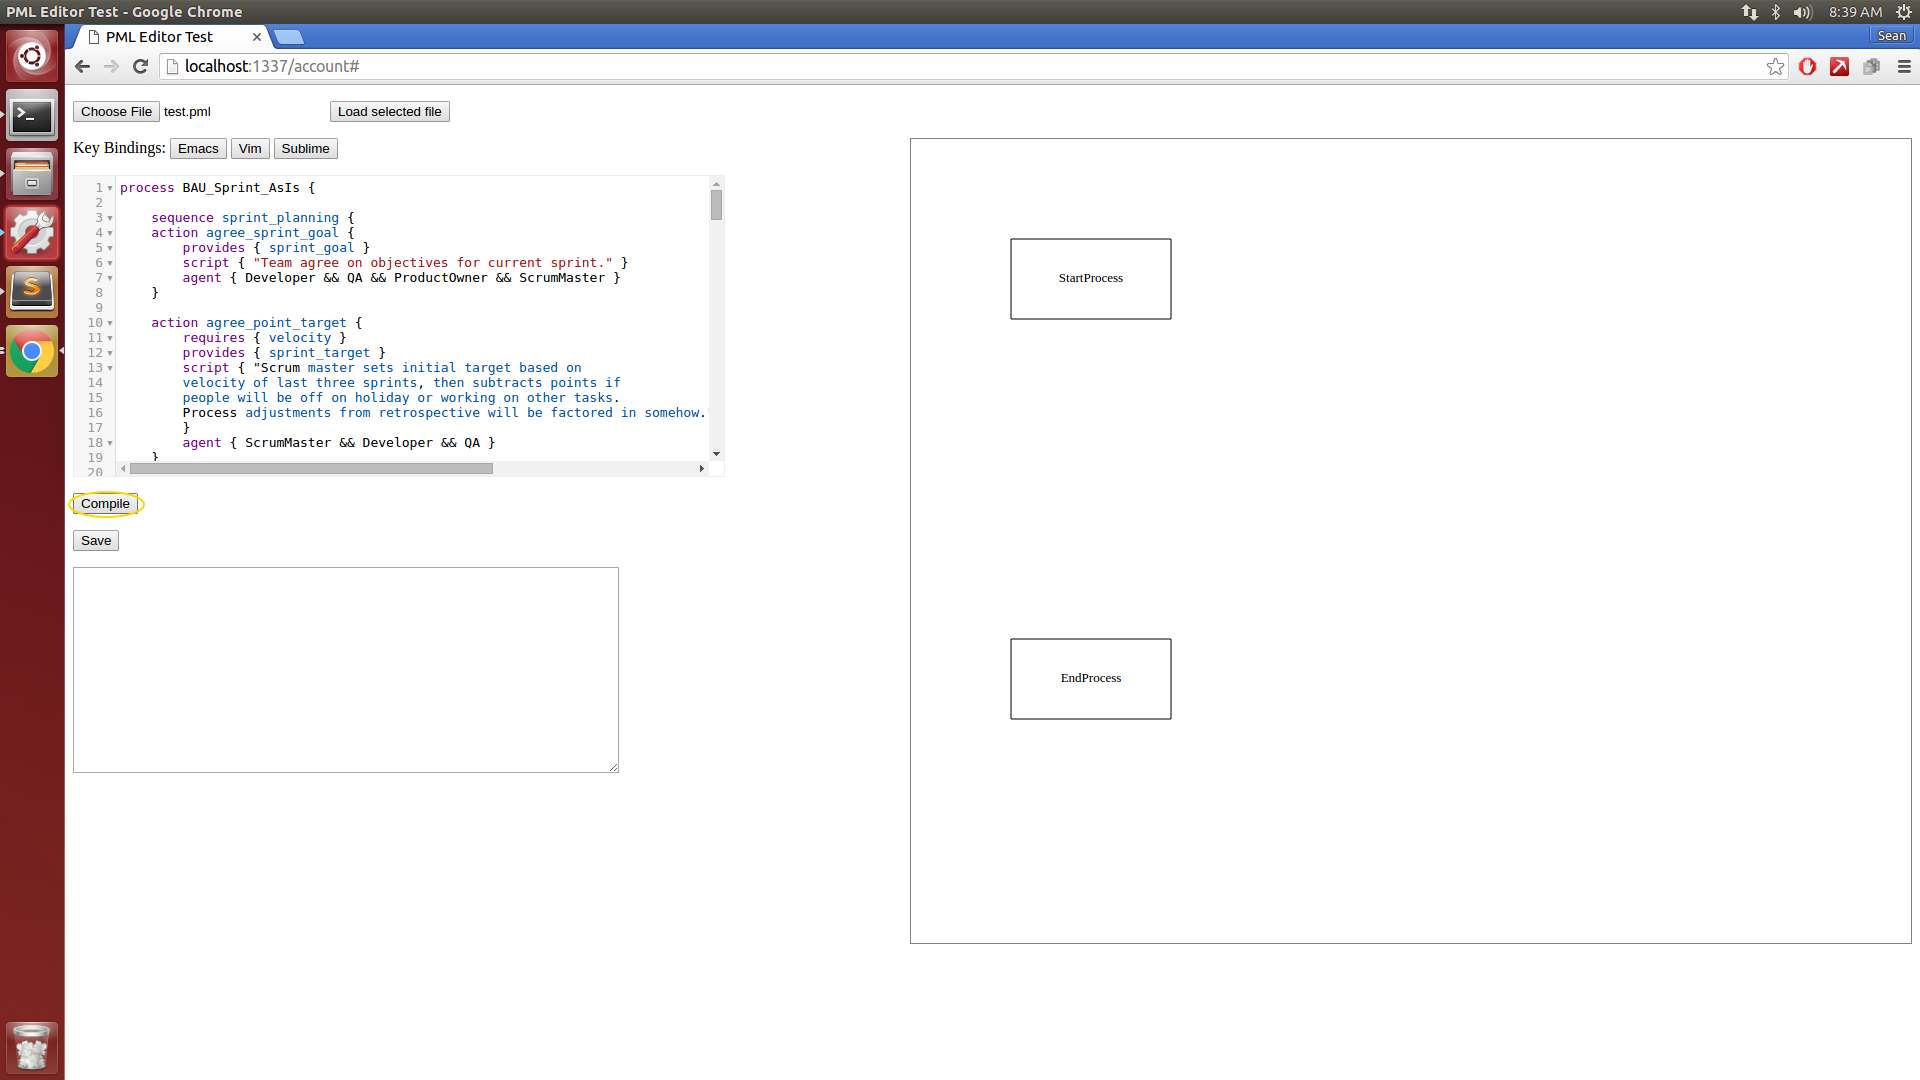
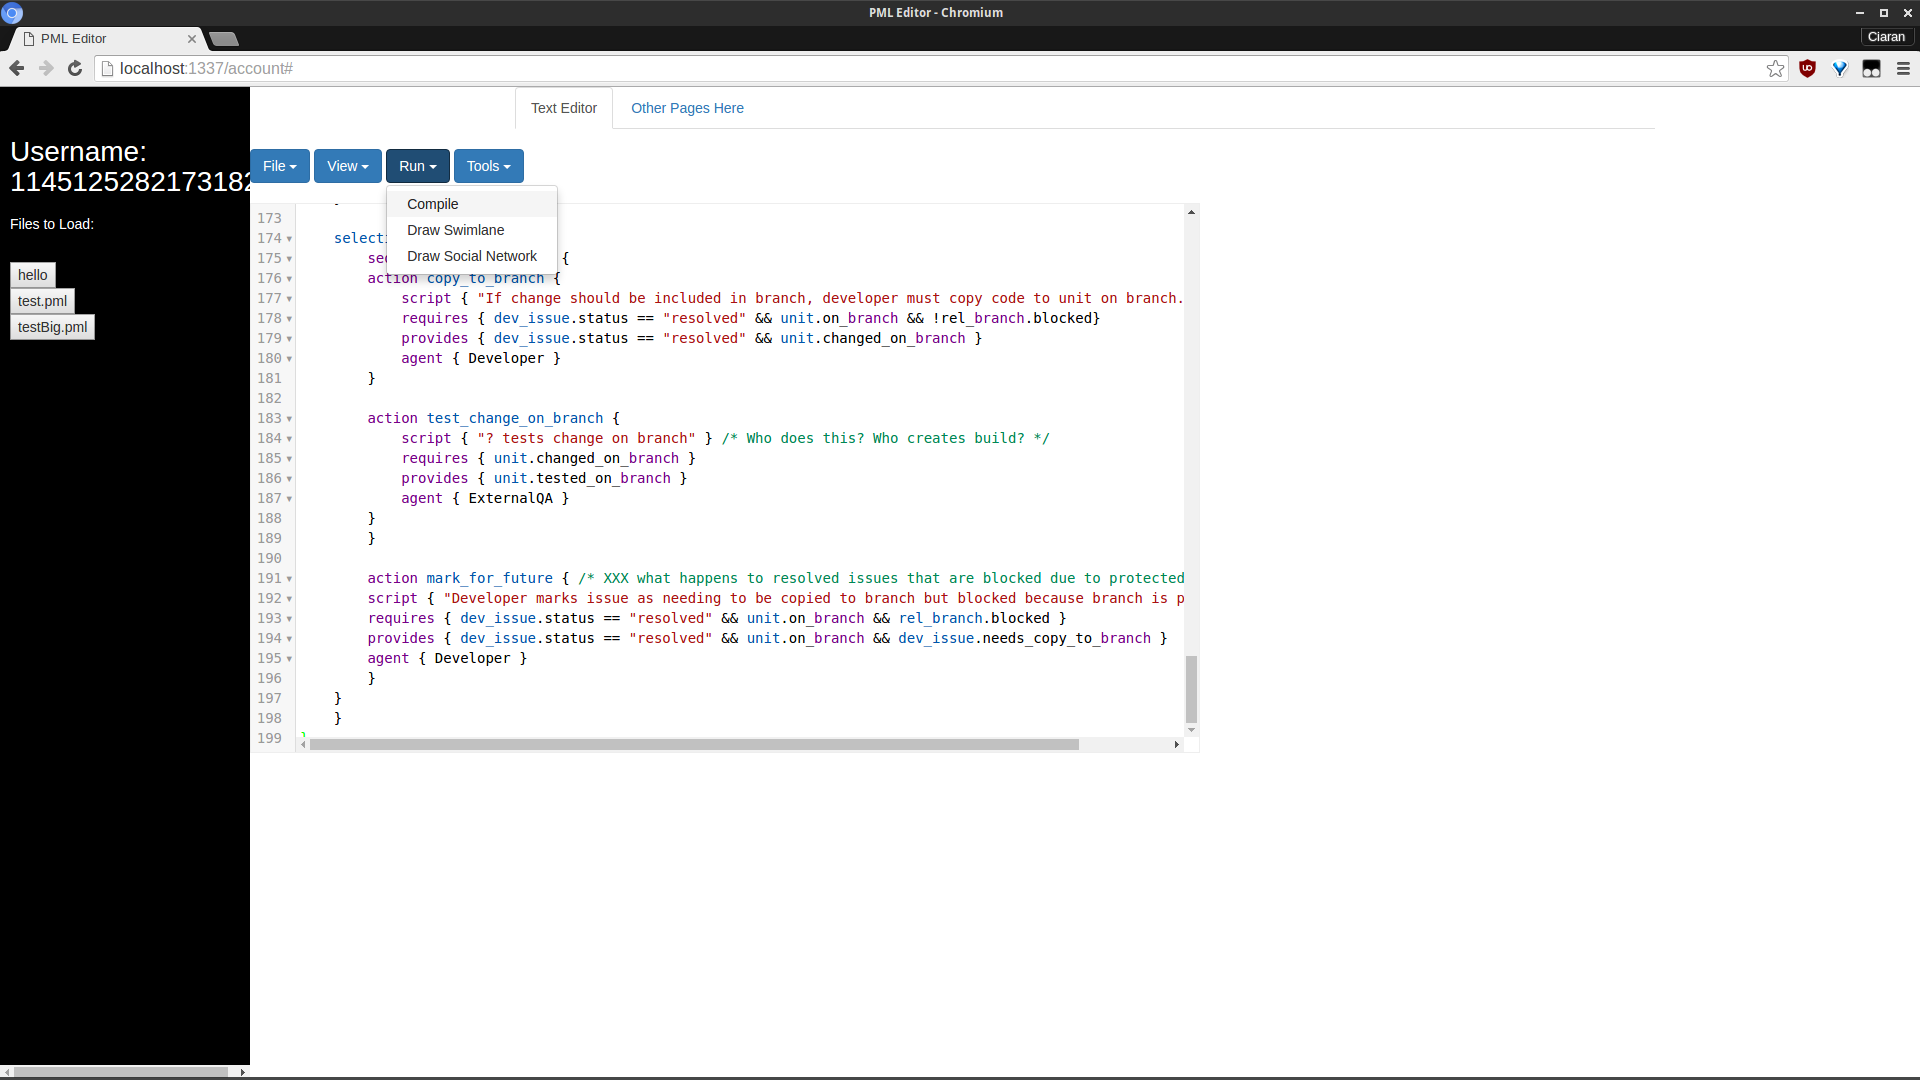
Updated README with new UI + Features for release

Changed region(s): [[0.0, 0.0, 1.0, 1.0], [0.1875, 0.5194, 0.625, 0.6722]]

diff --git a/README.md b/README.md
@@ -19,7 +19,7 @@ Java is also needed, to install `sudo apt-get install default-jdk`
 
 To install dependencies for the PML Checker, run `sudo apt-get install -y byacc flex`
 
-For testing, you Phantom.js is required. To install `sudo npm install -g phantomjs`
+For testing, Phantom.js is required. To install `sudo npm install -g phantomjs`
 
 To build the project, run `make install` in the project's root directory; this will build the required pml dependences, which can be found under the `/pml` directory along with the external dependencies required by the node server; these will be stored in the `/node_modules` directory.
 
@@ -37,33 +37,46 @@ To run the editor; open Chrome/Chromium or Firefox and navigate to *localhost:13
 
 ##### Uploading Files
 
-To upload a file to the text editor; click on `Choose File`; once you have selected your desired file click `open`.
+To upload a file to the text editor; click on `File` and select `Browse`
 
 ![Select File](/Readme Pics/fileSelect.png)
 
-Once you have selected a file, you need to load it into the text editor; this is done by clicking on `Load selected file`.
+After the file has been selected, it will be loaded directly into the editor.
 
-![Select File](/Readme Pics/loaded.png)
+![Select File](/Readme Pics/fileOpen.png)
 
 ##### Syntax Analysis
 
-Once we have pml code which we wish to evaluate, click on `Compile`;
+Once we have pml code which we wish to evaluate, click on `Run` and select `Compile`:
 
 ![Compile Code](/Readme Pics/compile.png)
 
-As a result we can that our code has been compiled and a syntax analysis has been done; This is shown in the output box below.
+As a result we can that our code has been compiled and a syntax analysis has been done; This is shown in the console window below.
 
 ![Compilation Output](/Readme Pics/compiled.png)
 
-##### Saving Files
+##### Saving File Locally
 
-Firstly, when we want to save the contents of the text editor we click `Save`; We are then prompted to enter a name for our file; Once happy, click `Ok`.
+To save files to the local disk, click on `File` > `Save Locally`
 
-![File Save](/Readme Pics/fileSave.png)
+![Save Locally](/Readme Pics/localSave.png)
 
-Once filename is entered successfully, an output message appears to inform the user that the filed has been saved successfully.
+From there, a dialog box will be opened asking for the name of the file.
 
-![File Save](/Readme Pics/isSaved.png)
+![Save Local Dialog](/Readme Pics/localSaveDialog.png)
+If successful, the web browser should download the file normally
+
+![Save Local Downloaded](/Readme Pics/localSaveDownload.png)
+
+##### Saving Files Remotely
+
+To save files remotely, click on `File` > `Save Remotely`. This requires that the user be authenitcated with an external service (Facebook, Google). 
+
+![File Save](/Readme Pics/remoteSaveMenu.png)
+
+Once filename is entered successfully, an output message appears in the console to inform the user that the filed has been saved successfully. The file also appears on a quick access button on the sidebar
+
+![File Save](/Readme Pics/remoteSaveSidebar.png)
 
 ##### Authentication
 
@@ -89,31 +102,36 @@ In addition, with google the user must allow for the app permissions before bein
 
 To find a specific sequence of characters in the text editor, press `CTRL + f`; The user then should enter the sequence of characters their looking for.
 
-![Find](/Readme Pics/find.png)
+![Find](/Readme Pics/ceFind.png)
+
+The output will highlight the both on the screen and the sroll bar
+
+![Find](/Readme Pics/ceFindResult.png)
+
 
 ###### Search & Replace
 
 To search for and replace a sequence of characters in the text editor, press `SHIFT + CTRL + f`; Similar to find the user must enter the sequence of characters their looking to replace; The user then must enter the sequence of characters to take the current sequences place.
 
-![Search & Replace](/Readme Pics/replace.png)
+![Search & Replace](/Readme Pics/ceFindReplace.png)
 
 ###### Jump to Line
 
 To jump to a desired line in the text editor, press `ALT + g`; The user is then prompted to enter the row and column of the position in the text editor they wish to jump to respectively.
 
-![Jump to Line](/Readme Pics/jumpLine.png)
+![Jump to Line](/Readme Pics/ceJumpLine.png)
 
 ###### Replace All
 
 To Replace All in the text editor, press `SHIFT + CTRL + r`. Unlike Search and Replace which is iterative, this function will immediately replace all in the text editor which contain the users input.
 
-![Replace All](/Readme Pics/replaceAll.png)
+![Replace All](/Readme Pics/ceReplaceAll.png)
 
 ###### Code Folding
 
 In order to fold code, their must be an arrow beside the row number; Vertical arrow signifies unfolded code, whilst a horizontal arrow signifies folded code.
 
-![Folded Code](/Readme Pics/folded.png)
+![Folded Code](/Readme Pics/ceCodeFolding.png)
 
 ##### Syntax Highlighting
 
@@ -125,27 +143,40 @@ This is highlighting of keywords that are inputted into the text editor. Keyword
 
 Once a variable or keyword has been used once, it is remebered by the server. Firstly the user presses `CTRL + space`; if there is only one possible word it is automatically entered; otherwise the user is given a choice of words, as seen below.
 
-![Resource Completion](/Readme Pics/resourceComp.png)
+![Resource Completion](/Readme Pics/ceResourceCompletion.png)
 
 ##### Editor Keybinding Emulation
 
 Basic Vim Commands Available -- Refer to http://www.keyxl.com/aaa8263/290/VIM-keyboard-shortcuts.htm <br />
 
 Some execute commands (commands beginning with ':') are not supported.
+
+To change the keybinding, navigate to `Tools` > `Change Key Bindings`
+
+![KeybindingMenu](/Readme Pics/ceKeyBindings.png)
+
 ##### Error Highlighting
 
 Firstly, the user tries to compile their code; if their are no errors, the user will receive no prompt from the server; if errors exist, the user is shown where in the text editor that the error has occured along with the error itself.
 
-![Error Highlighting](/Readme Pics/folded.png)
-
-### Graphical Designer
-
-##### TODO
+![Error Highlighting](/Readme Pics/ceErrorHandling.png)
 
 ### Diagrams
 
-##### TODO
+##### Swim Lanes
 
-### Analysis
+To draw a Social Network - a visualization of how actions are divided among agents, click on `Run` > `Draw Swim Lanes`
 
-##### TODO
+![DrawSwimLane](/Readme Pics/drawSL.png)
+
+The code will then compile and a new window will be opened showing the swimlane visualization.
+
+##### Social Networks
+
+To draw a Social Network - a visualization of how all nodes are connected together, click on `Run` > `Draw Social Network`
+
+![DrawSocialNetwork](/Readme Pics/drawSN.png)
+
+The code will then compile and a new window will be opened showing the social network visualization.
+
+![SocialNetwork](/Readme Pics/socialNetwork.png)
